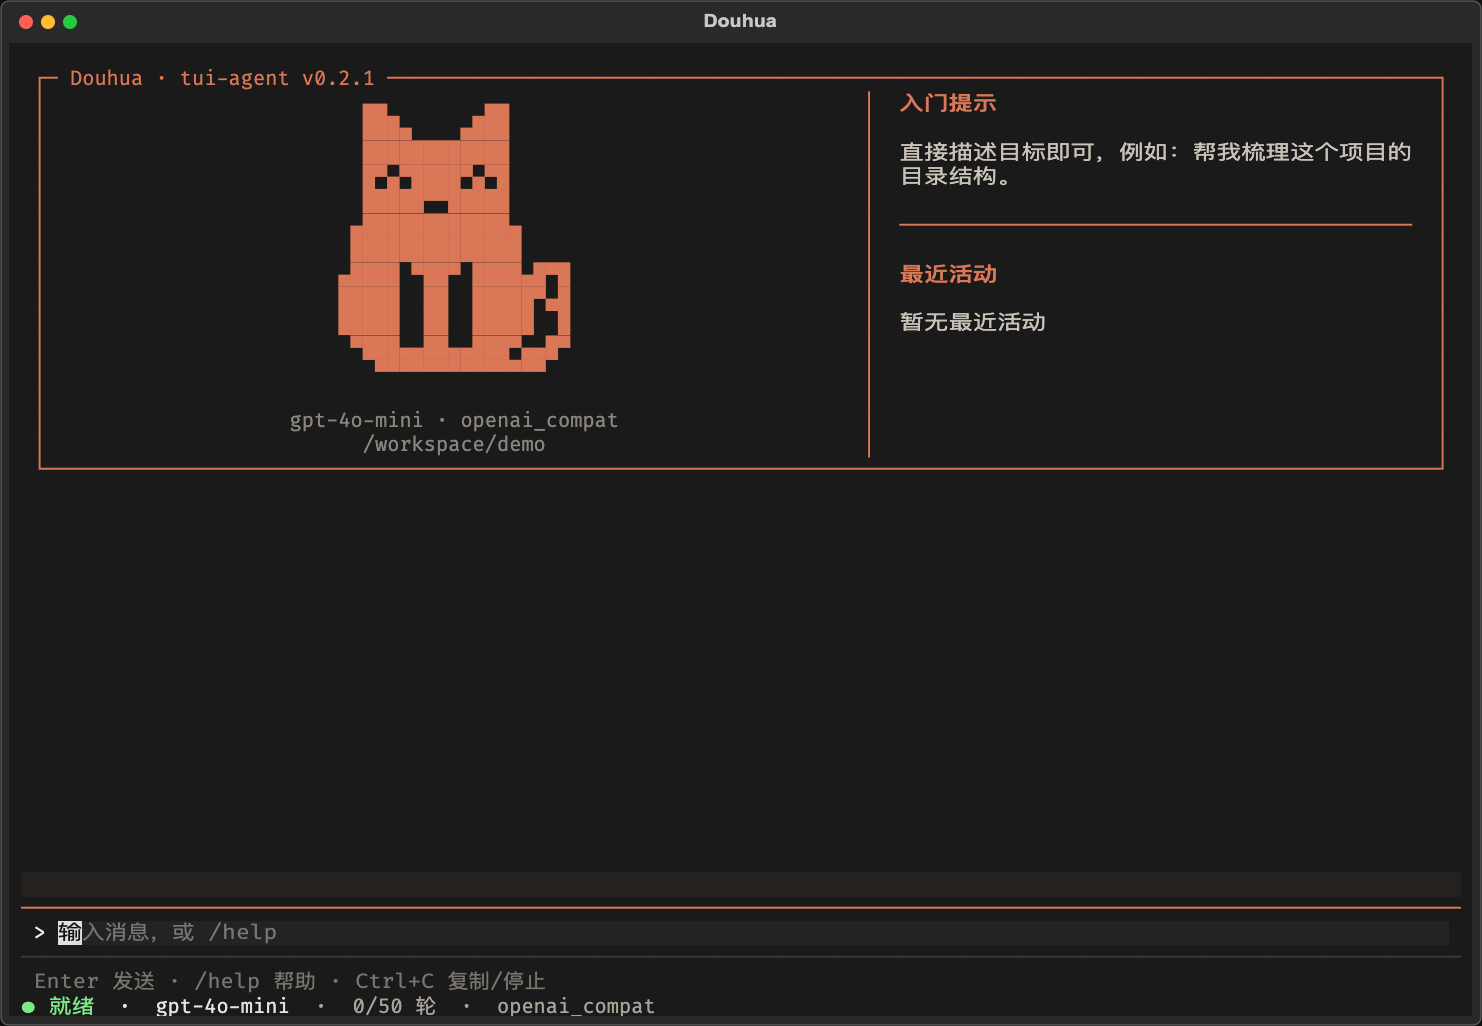
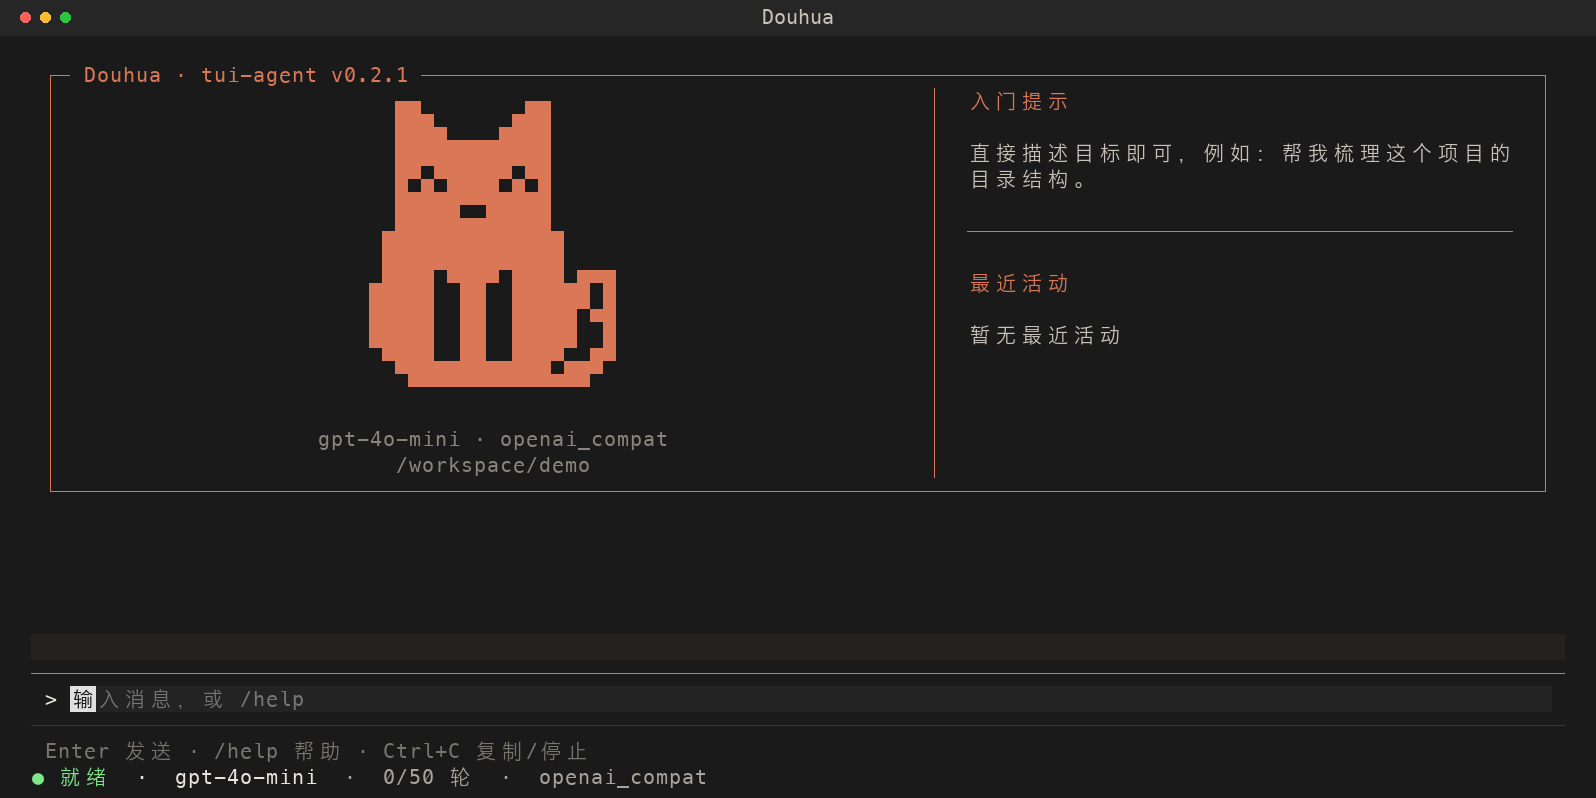
feat(docs): 优化 README 展示截图 原因： - 截图中文字重明显偏粗，猫咪块面有细网格，窗口也更高，造成大面积留白
解决方案：
- 恢复常规字重与等宽排版，避免文字过粗。
- 欢迎页和对话图改为 2:1 横向比例，减少留白。
- 消除猫咪块面细缝，保留 Douhua 名称、当前版本和短尾造型。
- 同步更新紧凑模式、确认界面截图及文档说明。

影响：
- 不改包名、会话目录和配置文件路径

diff --git a/docs/ui-guide.md b/docs/ui-guide.md
@@ -70,7 +70,7 @@ Douhua（Simple TUI Agent）使用原版 12 行橙色终端半块字符坐猫：
 
 ## 验证与范围
 
-界面示例由 Textual 渲染数据按字符格生成 PNG，固定中文字体与颜色，使用虚构工作区与内容，没有调用真实模型。布局测试验证输入框和确认选项可见、工具详情键盘展开及失败状态；终端字体、emoji 和颜色可能随终端而异。
+界面示例由当前 Textual 组件的渲染数据按字符格生成 PNG，使用常规字重与等宽排版；猫咪的半块字符按整像素绘制，避免块面间出现细缝。欢迎页与对话示例使用 120×29 的横向布局，紧凑示例为 80×24，确认示例为 120×32。示例使用虚构工作区与内容，没有调用真实模型。布局测试验证输入框和确认选项可见、工具详情键盘展开及失败状态；终端字体、emoji 和颜色可能随终端而异。
 
 助手回复目前按纯文本显示，尚未加入 Markdown 代码高亮或多行编辑器；已支持 Tab 命令补全与菜单选择。
 

diff --git a/README.md b/README.md
@@ -32,6 +32,8 @@
 
 ![Douhua 对话与文件差异](docs/images/tui-task.png)
 
+界面示例使用演示内容，按 120 列终端布局生成；实际字体与显示效果随终端设置而异。
+
 ## 快速开始
 
 普通使用推荐通过 [uv](https://docs.astral.sh/uv/getting-started/installation/) 安装。需要可用的模型 API Key，建议终端尺寸至少 **80×24**。
